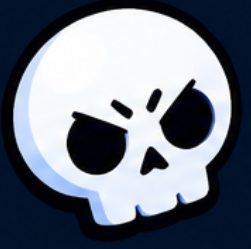
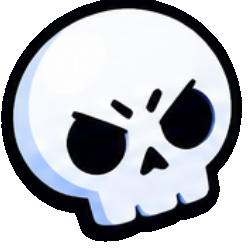
Remover fundos dos PNGs do hero

Changed region(s): [[0.0, 0.0, 1.0, 1.0]]

diff --git a/static/css/home.css b/static/css/home.css
@@ -104,50 +104,6 @@
   isolation: isolate;
 }
 
-/* Palco visual: cria contexto para os retratos e evita que pareçam itens
-   soltos no vazio. Usa somente formas CSS e os SVGs locais do projeto. */
-.hero__art::before {
-  content: "";
-  position: absolute;
-  inset: 5%;
-  z-index: -2;
-  border: 4px solid rgba(255, 206, 40, 0.72);
-  border-radius: 28% 22% 30% 24%;
-  background: linear-gradient(145deg, rgba(27, 55, 112, 0.94), rgba(7, 18, 48, 0.96));
-  box-shadow: 12px 14px 0 rgba(0, 0, 0, 0.22), inset 0 0 0 2px rgba(62, 200, 240, 0.25);
-  transform: rotate(3deg);
-}
-
-.hero__art::after {
-  content: "";
-  position: absolute;
-  inset: 11% 9%;
-  z-index: -1;
-  border: 2px solid rgba(62, 200, 240, 0.35);
-  border-radius: 50%;
-  transform: rotate(-18deg);
-}
-
-.hero__halo {
-  position: absolute;
-  inset: 16% 13%;
-  z-index: 0;
-  border: 3px solid rgba(62, 200, 240, 0.28);
-  border-radius: 42% 58% 52% 48%;
-  background: radial-gradient(circle, rgba(62, 200, 240, 0.2), rgba(11, 23, 51, 0) 68%);
-  transform: rotate(-12deg);
-  animation: halo-pulse 5s ease-in-out infinite;
-}
-
-.hero__halo::after {
-  content: "";
-  position: absolute;
-  inset: 8%;
-  border: 2px dashed rgba(255, 206, 40, 0.38);
-  border-radius: 50%;
-  transform: rotate(22deg);
-}
-
 .hero__art .brawler-float {
   position: absolute;
   aspect-ratio: 1 / 1;
@@ -193,11 +149,6 @@
   50% { transform: translate(-50%, calc(-50% - 12px)) rotate(3deg); }
 }
 
-@keyframes halo-pulse {
-  0%, 100% { opacity: .7; transform: rotate(-12deg) scale(.98); }
-  50% { opacity: 1; transform: rotate(-8deg) scale(1.02); }
-}
-
 
 @media (max-width: 768px) {
   /* Mobile: remove a arte e sua célula por completo, sem espaço residual. */
@@ -218,8 +169,7 @@
 
 @media (prefers-reduced-motion: reduce) {
   .hero__art *,
-  .hero__art::before,
-  .hero__art::after {
+  .hero__art {
     animation: none !important;
     transition: none !important;
   }

diff --git a/templates/home.html b/templates/home.html
@@ -53,7 +53,6 @@
 
     {# ---- Composição de ilustrações originais ---- #}
     <div class="hero__art" aria-hidden="true">
-      <div class="hero__halo"></div>
       <div class="brawler-float b1"><img src="{% static 'img/estrela brawl.png' %}" alt=""></div>
       <div class="brawler-float b2"><img src="{% static 'img/estrela roxa.png' %}" alt=""></div>
       <div class="brawler-float b3"><img src="{% static 'img/Combate.png' %}" alt=""></div>
